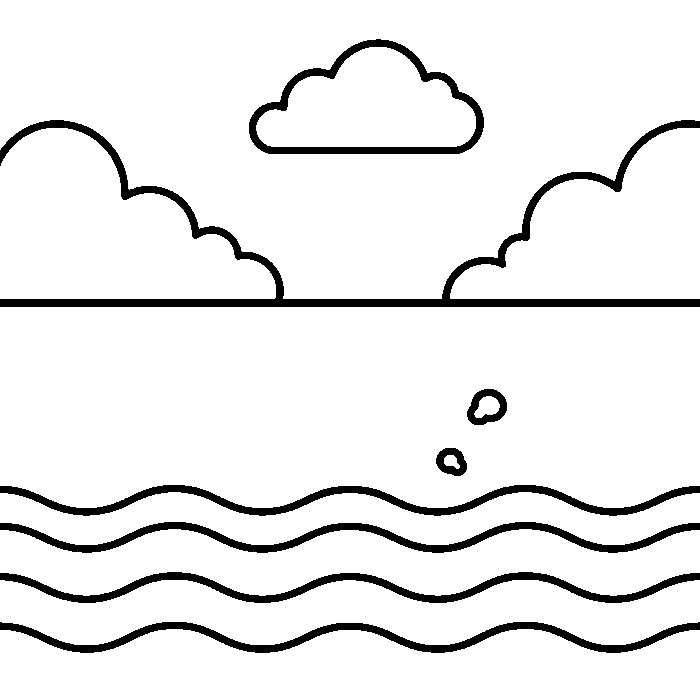
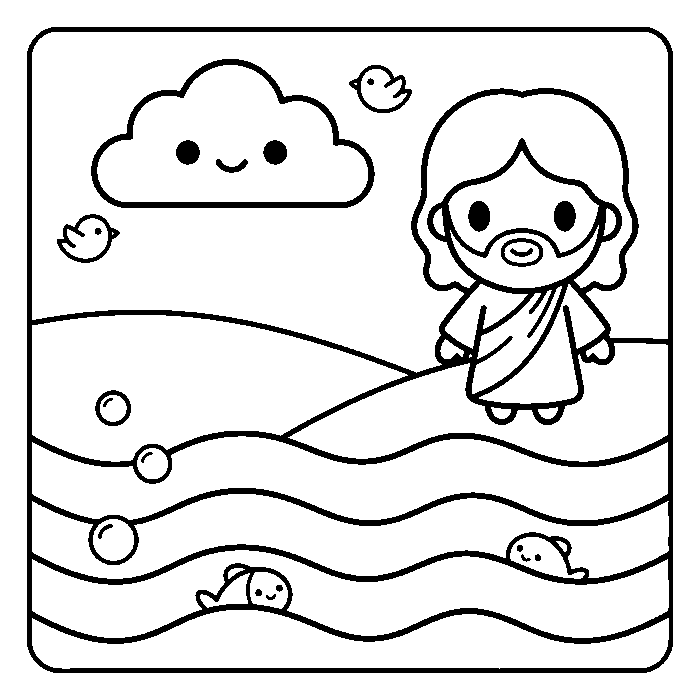
feat(colorir): Album 4 — Milagres de Jesus + Dia 2 consertado (bundle OTA 157)
Mesmos arquivos que subiram no web (theo-quiz 1dfbe39). colorir.js identico
byte a byte nos dois alvos.

Album 4 com 8 milagres; milagre-cesta e milagre-zaqueu sao momentos diferentes
das historias que ja existem no album 1, com ids proprios pra nao mexer no
progresso de ninguem. E o criacao-ceu do album 3 foi trocado: era o mais pobre
do app com 9 areas pintaveis, agora tem 20 e ganhou personagem.

Traco 6-8px e tinta 13,0% dentro do alvo. Areas (29,5) e slivers (24,9) fora —
as duas metas nao coexistem: dos 32 candidatos medidos, nenhum cumpre a spec
inteira, e com teto de 20 slivers o maximo de areas e 34 contra um piso de 35.

Bump 156 -> 157. COLORIR_BASE vazio (offline). Nada de Play/OTA tocado.

diff --git a/www/colorir.js b/www/colorir.js
@@ -105,13 +105,25 @@
     {id:"criacao-animais",name:"Os Animaizinhos",col:"Dia 6",file:"criacao-animais.png",img:null,draw:drawArt},
     {id:"criacao-jardim",name:"O Jardim Feliz",col:"A Família",file:"criacao-jardim.png",img:null,draw:drawArt},
     {id:"criacao-descanso",name:"O Dia de Descanso",col:"Dia 7",file:"criacao-descanso.png",img:null,draw:drawArt},
+    /* Álbum 4 — Milagres de Jesus. "Pães e Peixes" e "Zaqueu" já existem no álbum 1;
+       aqui são OUTROS momentos das mesmas histórias, com ids próprios (milagre-cesta,
+       milagre-zaqueu) pra não colidir com o progresso de quem já pintou os do álbum 1. */
+    {id:"milagre-aguas",name:"Jesus nas Águas",col:"O Passo de Fé",file:"milagre-aguas.png",img:null,draw:drawArt},
+    {id:"milagre-cesta",name:"A Cesta que Não Acabava",col:"O Pão do Céu",file:"milagre-cesta.png",img:null,draw:drawArt},
+    {id:"milagre-tempestade",name:"O Mar Ficou Calmo",col:"A Paz de Jesus",file:"milagre-tempestade.png",img:null,draw:drawArt},
+    {id:"milagre-cego",name:"Os Olhos que Viram",col:"A Luz",file:"milagre-cego.png",img:null,draw:drawArt},
+    {id:"milagre-ovelha",name:"A Ovelhinha Achada",col:"Ninguém se Perde",file:"milagre-ovelha.png",img:null,draw:drawArt},
+    {id:"milagre-zaqueu",name:"O Almoço do Zaqueu",col:"O Convite",file:"milagre-zaqueu.png",img:null,draw:drawArt},
+    {id:"milagre-volta",name:"O Abraço do Pai",col:"O Perdão",file:"milagre-volta.png",img:null,draw:drawArt},
+    {id:"milagre-bencao",name:"A Bênção de Jesus",col:"A Grande Bênção",file:"milagre-bencao.png",img:null,draw:drawArt},
   ];
   var byDrawId={}; DRAWINGS.forEach(function(d){ byDrawId[d.id]=d; });
   var ALBUMS=[
     {id:"alb1",name:"Amiguinhos da Bíblia",sub:"Álbum 1",ids:["jesus","pastor","criancas","davi","zaqueu","paes","arca","daniel"]},
     // a capa do álbum é o PRIMEIRO id da lista (ver clrRenderCovers) — aqui, o Menino da Funda
     {id:"alb2",name:"Heróis da Bíblia",sub:"Álbum 2",ids:["davi-funda","sansao","moises-mar","jose-manto","jonas","tabuas","bom-amigo","abraao"]},
-    {id:"alb3",name:"O Mundo que Deus Criou",sub:"Álbum 3",ids:["criacao-luz","criacao-ceu","criacao-terra","criacao-sol-lua","criacao-peixes","criacao-animais","criacao-jardim","criacao-descanso"]}
+    {id:"alb3",name:"O Mundo que Deus Criou",sub:"Álbum 3",ids:["criacao-luz","criacao-ceu","criacao-terra","criacao-sol-lua","criacao-peixes","criacao-animais","criacao-jardim","criacao-descanso"]},
+    {id:"alb4",name:"Milagres de Jesus",sub:"Álbum 4",ids:["milagre-aguas","milagre-cesta","milagre-tempestade","milagre-cego","milagre-ovelha","milagre-zaqueu","milagre-volta","milagre-bencao"]}
   ];
   var curAlbum=null;
 

diff --git a/www/index.html b/www/index.html
@@ -14,8 +14,8 @@
 <meta name="apple-mobile-web-app-title" content="Aventura com Jesus" />
 <link rel="apple-touch-icon" href="assets/img/logos/app_icon_180.png" />
 <link rel="icon" type="image/png" href="assets/img/logos/app_icon_192.png" />
-<link rel="stylesheet" href="app.css?v=156" />
-<script src="lottie.min.js?v=156"></script>
+<link rel="stylesheet" href="app.css?v=157" />
+<script src="lottie.min.js?v=157"></script>
 <!-- SEM gravação de sessão. Smartlook e Microsoft Clarity foram REMOVIDOS: o Programa Famílias
      do Google Play proíbe SDK de replay/gravação de tela em app para crianças. A métrica que
      sobrou é agregada e anônima (ANALYTICS_URL, backend próprio) — sem replay, sem vídeo. -->
@@ -37,7 +37,7 @@
   // DESENHOS DO COLORIR. Vazio = assets/colorir/ dentro do próprio bundle.
   // No APK isto tem que ficar VAZIO: é o que mantém a criança pintando SEM SINAL.
   // Diferente do áudio, que é streamado de propósito pra não engordar o APK, os
-  // desenhos são leves (~1,1 MB nos 3 álbuns) e valem mais offline do que como
+  // desenhos são leves (~1,5 MB nos 4 álbuns) e valem mais offline do que como
   // espaço economizado. Reavaliar lá pelo 5º/6º álbum, quando passar de alguns MB.
   window.COLORIR_BASE = "";
   // PLAY / ANTI-STEERING: o app NÃO pode levar a um pagamento fora da Play Store.
@@ -79,9 +79,9 @@
 <!-- áudio de fundo do player -->
 <audio id="bg-audio" src="assets/sound/background.mp3" loop preload="none"></audio>
 
-<script src="data.js?v=156"></script>
-<script src="app.js?v=156"></script>
-<script defer src="colorir.js?v=156"></script>
+<script src="data.js?v=157"></script>
+<script src="app.js?v=157"></script>
+<script defer src="colorir.js?v=157"></script>
 <script>
   if ('serviceWorker' in navigator) {
     window.addEventListener('load', () => navigator.serviceWorker.register('sw.js').catch(()=>{}));

diff --git a/www/sw.js b/www/sw.js
@@ -1,5 +1,5 @@
 /* Service Worker — Aventura com Jesus (cache offline simples) */
-const V = '156';   // ⚠ BUMPAR a cada release, junto com o ?v= do index.html — senão offline serve versão velha
+const V = '157';   // ⚠ BUMPAR a cada release, junto com o ?v= do index.html — senão offline serve versão velha
 const CACHE = 'aventura-v' + V;
 const CORE = [
   './', './index.html', `./app.css?v=${V}`, `./app.js?v=${V}`, `./data.js?v=${V}`,
